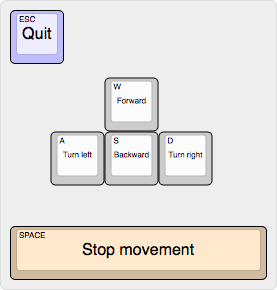
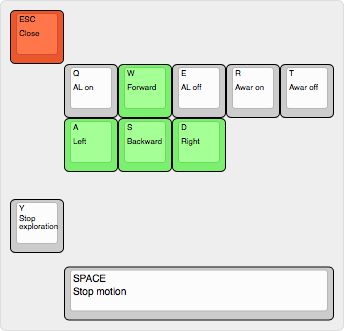
Add new features to teleoperation

diff --git a/teleoperation.py b/teleoperation.py
@@ -13,21 +13,43 @@ cv2.resizeWindow("Robot teleoperation", width, height)
 while True:
     cv2.imshow("Robot teleoperation", image)
     k = cv2.waitKeyEx()
+    # ESC - quit application
     if k == 27:
         break
 
+    # D - turn right
     if k == 100:
-        # Turn right
-        pepper.turn_around(-2)
+        print("[INFO]: Turn right")
+        pepper.turn_around(-10)
+    # W - go forward
     elif k == 119:
-        # Go forward
-        pepper.move_forward(2)
+        print("[INFO]: Go forward")
+        pepper.move_forward(1000)
+    # A - turn left
     elif k == 97:
-        # Turn left
-        pepper.turn_around(2.0)
+        print("[INFO]: Turn left")
+        pepper.turn_around(10)
+    # S - go backward
     elif k == 115:
-        # Go back
-        pepper.move_forward(2.0)
+        print("[INFO]: Go backward")
+        pepper.move_forward(-1000)
+    # SPACE - stop movement
     elif k == 32:
-        # Stop moving
+        print("[INFO]: Stop movement")
         pepper.stop_moving()
+    # Q - autonomous life on
+    elif k == 113:
+        pepper.autonomous_life_on()
+    # E - autonomous life off
+    elif k == 101:
+        pepper.autonomous_life_off()
+    # R - awareness on
+    elif k == 114:
+        pepper.set_awareness(True)
+    # T - awareness off
+    elif k == 116:
+        pepper.set_awareness(False)
+    # Y - stop exploration
+    elif k == 121:
+        print("[INFO]: Stopping exploration")
+        pepper.navigation_service.stopExploration()
